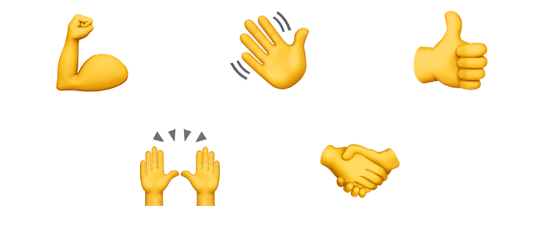
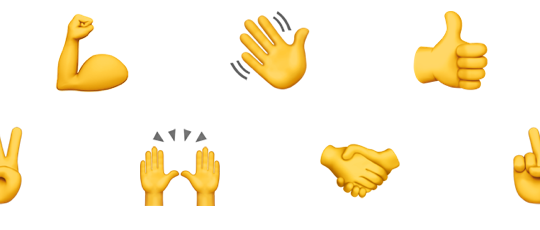
Image updates

Changed region(s): [[0.0, 0.5478, 0.0593, 0.8826], [0.9481, 0.5478, 1.0, 0.913]]

diff --git a/css/refresh-styles.css b/css/refresh-styles.css
@@ -313,7 +313,7 @@ header a {
   width: 130%; }
 
 .background-gradient--5 {
-  background: linear-gradient(45deg, #7FFFB9 0%, #C496FF 100%);
+  background: #F4F5F6;
   -webkit-clip-path: polygon(50% 20%, 100% 0%, 100% 80%, 50% 100%, 0% 80%, 0% 0%);
   clip-path: polygon(50% 20%, 100% 0%, 100% 80%, 50% 100%, 0% 80%, 0% 0%); }
 
@@ -347,6 +347,11 @@ header a {
 
 .background-pattern--dots {
   background-image: url("http://adamruf.com/images/2018-refresh/dot-pattern.svg"); }
+
+.background-pattern--emoji-hands {
+  background-image: url("http://adamruf.com/images/2018-refresh/emoji-hands@2x.png");
+  background-size: 270px;
+  opacity: 0.2; }
 
 .background-pattern--shapes {
   background-image: url("http://adamruf.com/images/2018-refresh/shape-pattern.svg"); }

diff --git a/sass/refresh-styles.scss b/sass/refresh-styles.scss
@@ -472,7 +472,8 @@ header a {
 }
 
 .background-gradient--5 {
-  background: linear-gradient(45deg, $green 0%, $purple 100%);
+  // background: linear-gradient(45deg, $green 0%, $purple 100%);
+  background: $button--secondary;
   
   -webkit-clip-path: polygon(50% 20%, 100% 0%, 100% 80%, 50% 100%, 0% 80%, 0% 0%);
   clip-path: polygon(50% 20%, 100% 0%, 100% 80%, 50% 100%, 0% 80%, 0% 0%);
@@ -510,6 +511,12 @@ header a {
 
 .background-pattern--dots {
   background-image: url('http://adamruf.com/images/2018-refresh/dot-pattern.svg');
+}
+
+.background-pattern--emoji-hands {
+  background-image: url('http://adamruf.com/images/2018-refresh/emoji-hands@2x.png');
+  background-size: 270px;
+  opacity: 0.2;
 }
 
 .background-pattern--shapes {
